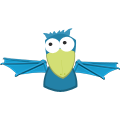
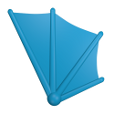
Use original images that are under MIT license

diff --git a/LICENSE.md b/LICENSE.md
@@ -1,16 +1,17 @@
-# Bumpy Booby
+# License
+
+## Bumpy Booby
 
 Copyright (c) 2013-2015 Pierre Monchalin <http://bumpy-booby.derivoile.fr> 
 (Original Bumpy Booby software).
 
 Edited by Philipp <https://github.com/philipp-r> for Spamty.eu. Copyright (c) 2016.
 
-## MIT License
+### MIT License
 
 Permission is hereby granted, free of charge, to any person obtaining
 a copy of this software and associated documentation files (the
-"Software"), to deal in the Software without restriction except
-the restriction for our logo (see section below), including
+"Software"), to deal in the Software without restriction including
 without limitation the rights to use, copy, modify, merge, publish,
 distribute, sublicense, and/or sell copies of the Software, and to
 permit persons to whom the Software is furnished to do so, subject to
@@ -27,17 +28,9 @@ LIABLE FOR ANY CLAIM, DAMAGES OR OTHER LIABILITY, WHETHER IN AN ACTION
 OF CONTRACT, TORT OR OTHERWISE, ARISING FROM, OUT OF OR IN CONNECTION
 WITH THE SOFTWARE OR THE USE OR OTHER DEALINGS IN THE SOFTWARE.
 
-## Logo
+## Included software
 
-The Spamty logo and the logo of this software are not subject to the
-MIT license (see above).
-The logo is copyright protected.
-You have no right to use, copy, modify, merge, publish, distribute, 
-sublicense, and/or sell copies of the logo.
-
-# Included software
-
-## Securimage
+### Securimage
 
 This software includes Securimage by Drew Phillips.
 
